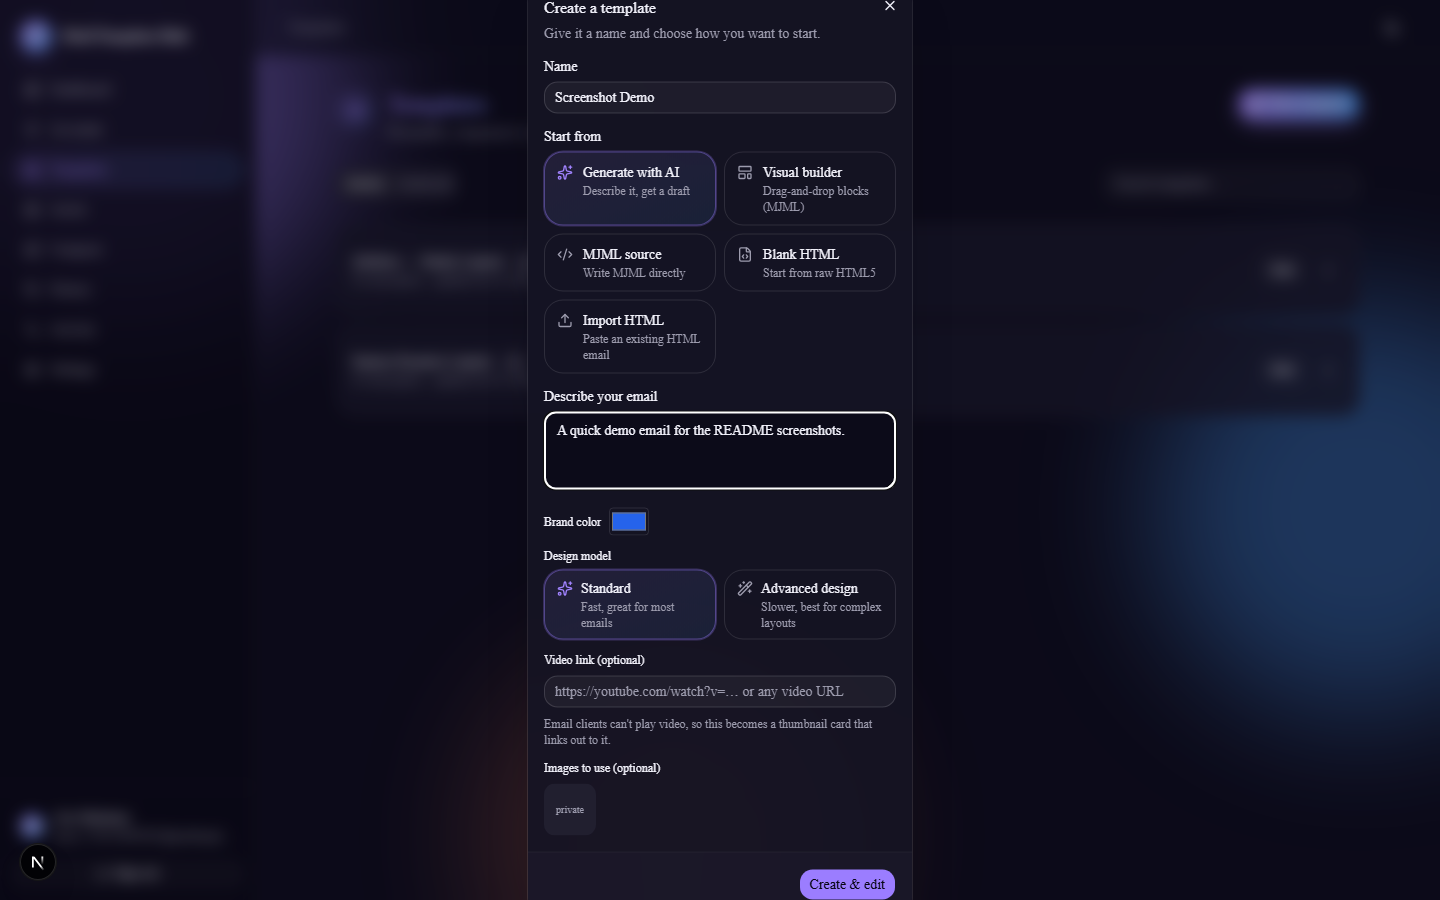
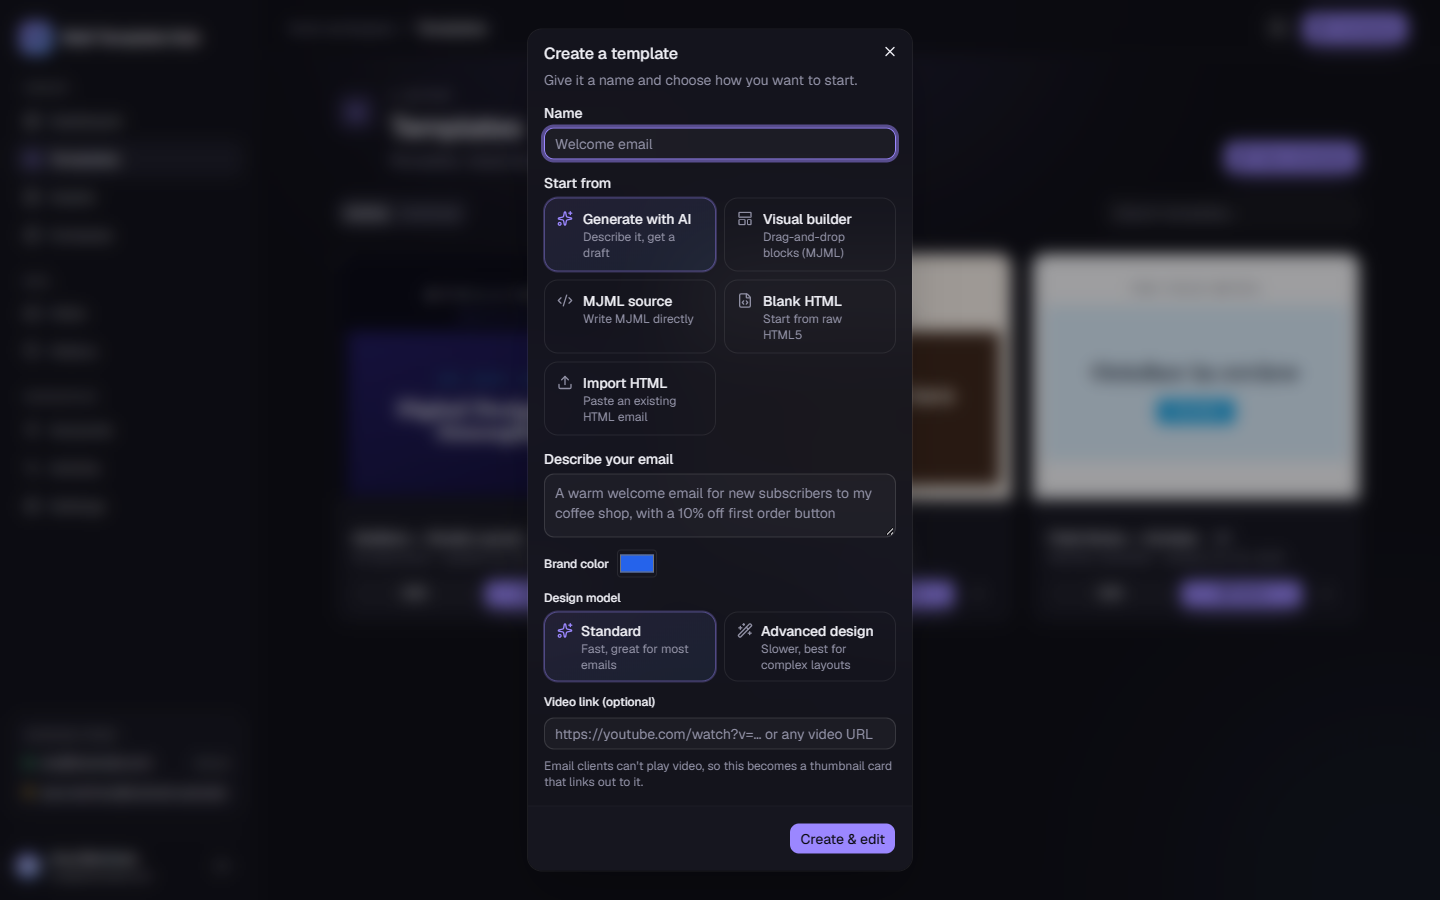
docs: refresh README screenshots for the Mailroom/Nocturne redesign
Ten new 1440x900 captures (demo data) covering both themes: dashboard, full-screen editor,
preview canvas, inbox, accounts, templates, AI generation dialog, sign in and send history.
Drops four outdated shots and updates the feature list for the new editor and themes.

diff --git a/README.md b/README.md
@@ -9,16 +9,22 @@ The build follows [docs/spec/12-implementation-plan.md](docs/spec/12-implementat
 
 ## Screenshots
 
+Two themes, one app: **Mailroom** (light — lilac paper, ink borders, hard offset shadows, Space Grotesk)
+and **Nocturne** (dark — near-black surfaces, hairline borders, a violet accent, Geist). Toggle with the
+sun/moon button; the choice is remembered. Screenshots use demo data.
+
 |                                                                     |                                                                     |
 | :-----------------------------------------------------------------: | :-----------------------------------------------------------------: |
-| ![Sign in](docs/screenshots/login-dark.png)                        | ![Dashboard](docs/screenshots/dashboard-dark.png)                  |
-| Sign in — glass panels over a soft gradient backdrop                | Dashboard — connected accounts, templates and delivery at a glance  |
-| ![AI template generation](docs/screenshots/new-template-dialog-dark.png) | ![Template editor](docs/screenshots/template-editor-source-dark.png) |
-| Generate a template from a prompt, choosing a Standard or Advanced design model | Visual (GrapesJS) / MJML source / live preview, with dark syntax highlighting |
-| ![Image placeholders](docs/screenshots/template-editor-images-panel.png) | ![Resizable preview](docs/screenshots/template-editor-preview-dark.png) |
-| Manual background/header-logo/footer-logo placeholders — no AI required | Live preview with Desktop/Mobile presets, an exact-px input, and a drag handle |
-| ![Templates](docs/screenshots/templates-dark.png)                  | ![Light mode](docs/screenshots/dashboard-light.png)                |
-| Templates list with versioning, duplicate, archive                  | Full light-mode theme, not just an inverted dark mode               |
+| ![Dashboard, light](docs/screenshots/dashboard-light.png)          | ![Dashboard, dark](docs/screenshots/dashboard-dark.png)            |
+| Dashboard — setup progress, 30-day KPIs, send volume, replies waiting | The same dashboard in Nocturne                                     |
+| ![Template editor](docs/screenshots/template-editor-visual-light.png) | ![Template preview](docs/screenshots/template-editor-preview-dark.png) |
+| Full-screen editor: visual builder, inbox-style subject/preheader bar, variables & images rail | Preview on a dotted canvas — Desktop/Mobile, exact width, zoom, and a simulated dark inbox |
+| ![Inbox](docs/screenshots/inbox-light.png)                         | ![Accounts](docs/screenshots/accounts-dark.png)                    |
+| Read your inbox and answer in-thread with a template               | Connected Gmail/Outlook mailboxes, capabilities and reconnect state |
+| ![Templates](docs/screenshots/templates-light.png)                 | ![AI template generation](docs/screenshots/new-template-dialog-dark.png) |
+| Templates with live thumbnails, versioning, duplicate, archive      | Generate a template from a prompt, choosing a Standard or Advanced design model |
+| ![Sign in](docs/screenshots/login-light.png)                       | ![Send history](docs/screenshots/history-dark.png)                 |
+| Sign in                                                             | Every send with per-recipient delivery and status                   |
 
 ## Features
 
@@ -43,8 +49,12 @@ The build follows [docs/spec/12-implementation-plan.md](docs/spec/12-implementat
 - **Convert a template's format** — switch an existing template between MJML (visual builder +
   source view) and raw HTML at any time; MJML compiles down to static HTML, and HTML wraps
   losslessly into MJML (`mj-raw`) to go the other way.
-- **Resizable live preview** — Desktop/Mobile presets, an exact-pixel width field, and a drag handle
-  for anything in between.
+- **Focused editor** — the template editor takes the full screen with its own header: one primary
+  **Save version** (⌘S / Ctrl+S), a Send menu (test to yourself or send to recipients), and the rest
+  tucked under "⋯". Subject and preheader are edited in an inbox-style row that shows how they'll
+  read in a recipient's list, with a length hint.
+- **Live preview on a work canvas** — Desktop/Mobile presets, an exact-pixel width field, a drag
+  handle, zoom, and a simulated dark-mode inbox to sanity-check how clients recolor the email.
 - **Asset library** — presigned direct-to-storage uploads (MinIO/S3) with image/GIF/document
   support, dedupe, and per-user quota.
 - **Scheduled & tracked sending** — queue, schedule, or test-send to yourself; per-recipient
@@ -53,7 +63,8 @@ The build follows [docs/spec/12-implementation-plan.md](docs/spec/12-implementat
 - **Automation-friendly** — a scoped API-key auth scheme for scripting sends (see
   [docs/integrations/n8n-whatsapp.md](docs/integrations/n8n-whatsapp.md) for the n8n/WhatsApp
   approve-and-send workflow).
-- **Light & dark mode**, both fully themed (not an inverted palette bolt-on).
+- **Two designed themes** — Mailroom (light) and Nocturne (dark), each with its own type, borders and
+  shadows rather than an inverted palette.
 
 ## Stack
 
